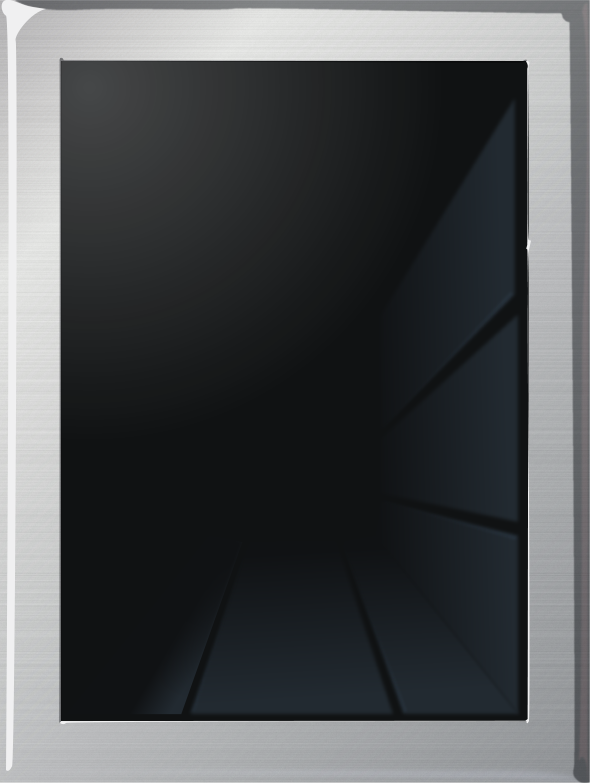
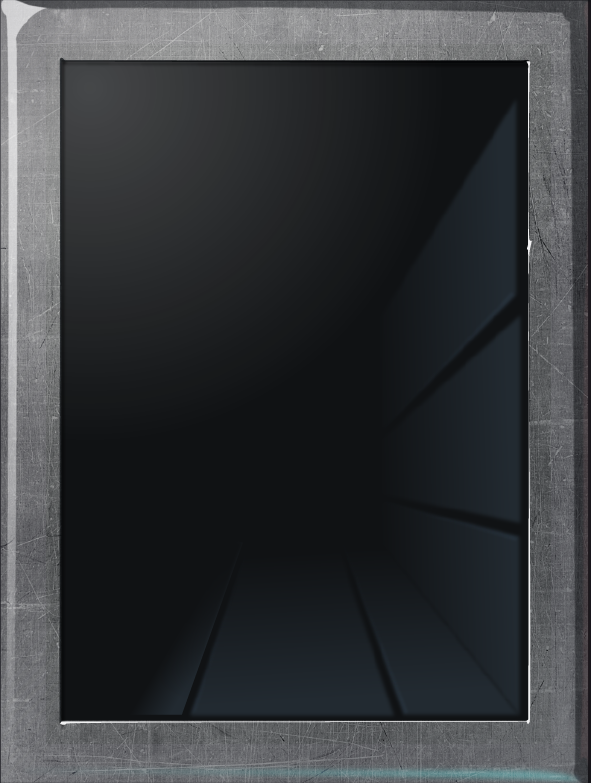
photo + cabine

diff --git a/templates/partials/photoautomat.html b/templates/partials/photoautomat.html
@@ -1,7 +1,7 @@
 <div class="widget Photoautomat hidden" data-widget="Photoautomat">
 	<div class="Photoautomat__mirror">
-		<img class="off" src="{{ url_for("static", filename="images/Vitre_Cabine_off.png") }}" alt="" />
-		<img class="hidden on" src="{{ url_for("static", filename="images/Vitre_Cabine_on.png") }}" alt="" />
+		<img class="off" src="{{ url_for("static", filename="images/mirror.png") }}" alt="" />
+		<img class="hidden on" src="{{ url_for("static", filename="images/mirror-on.png") }}" alt="" />
 	</div>
 	<div class="Photoautomat__kino-button">
 		<img src="{{ url_for("static", filename="images/button.png") }}" alt="" />
